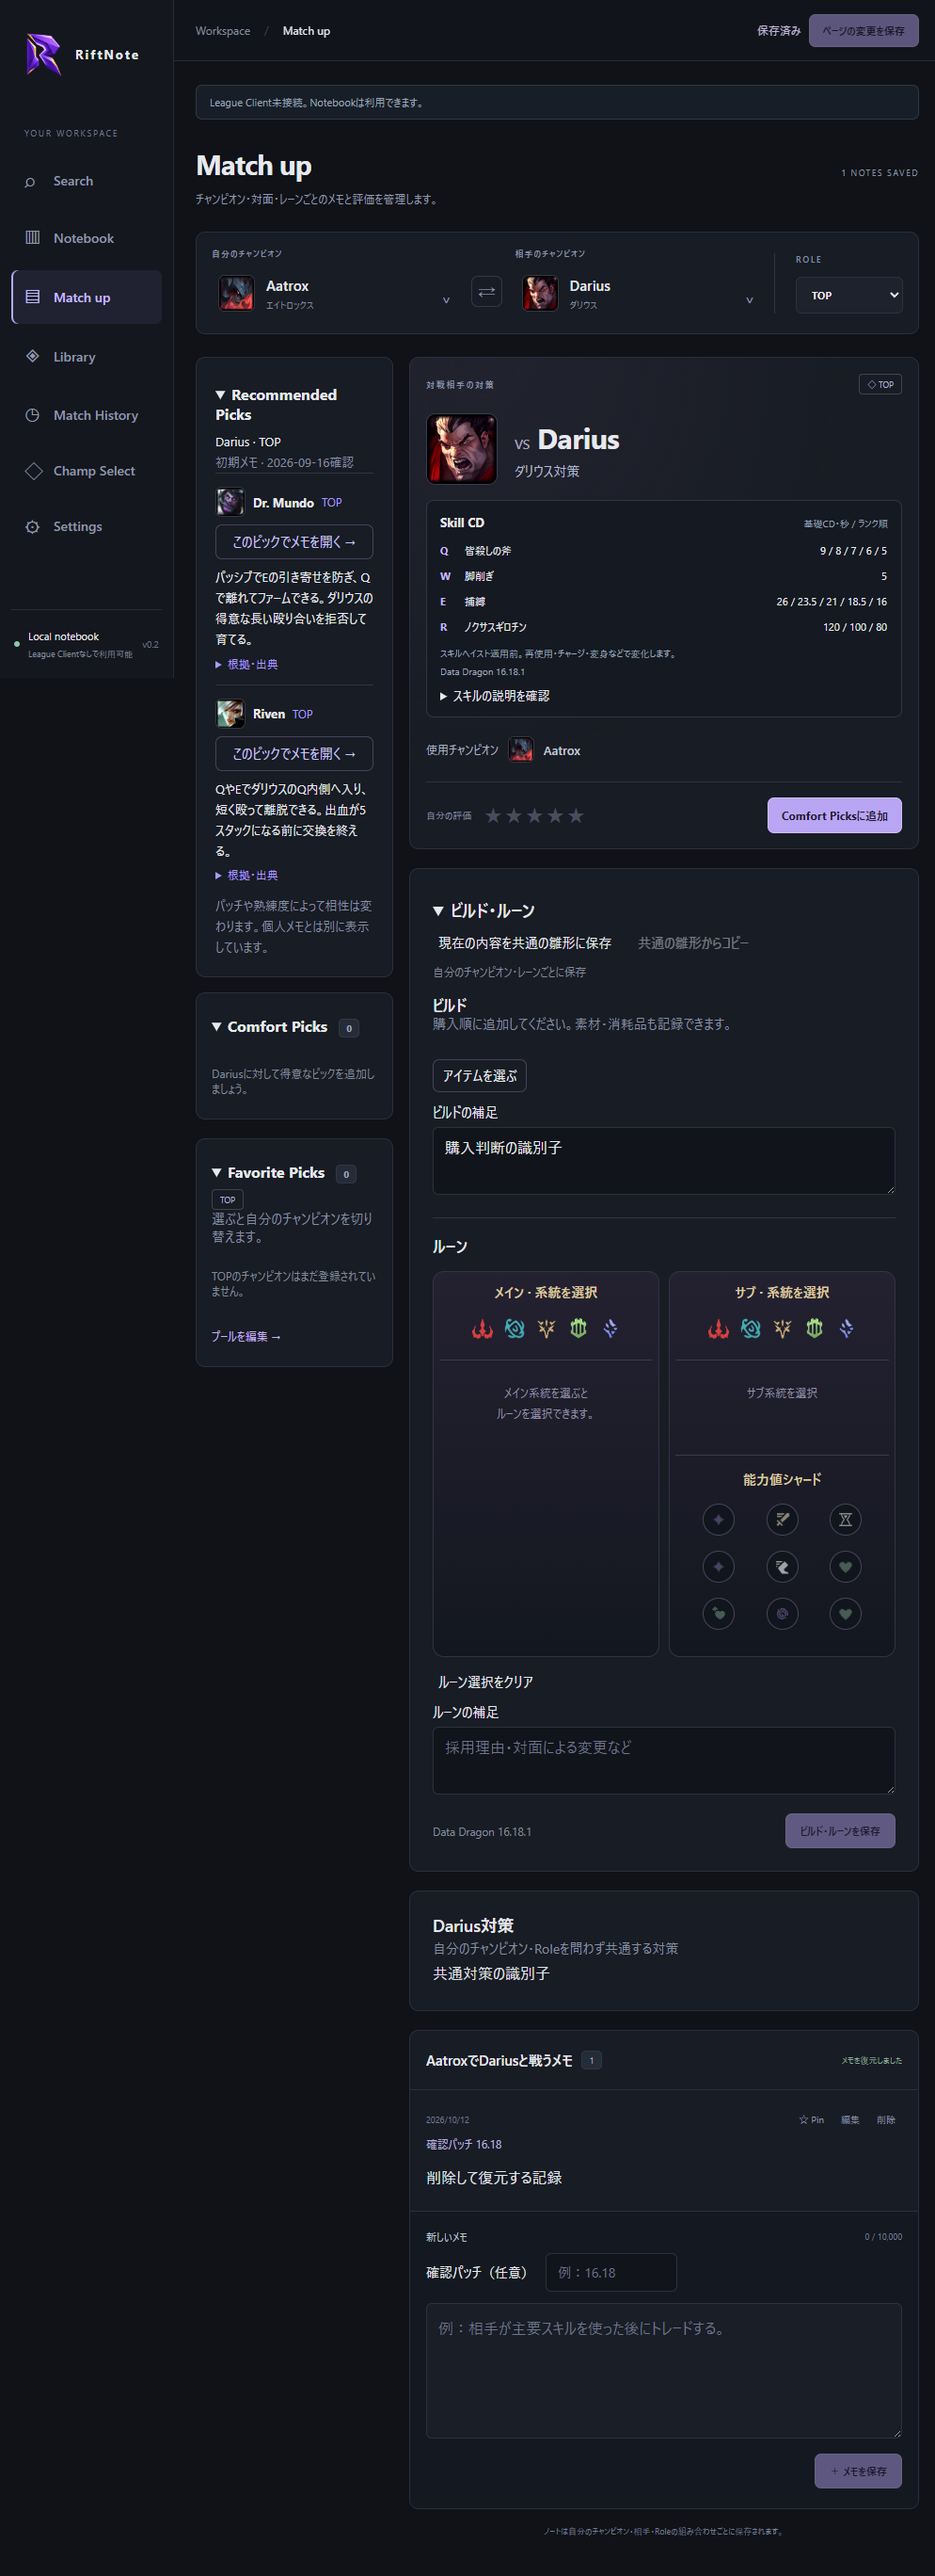
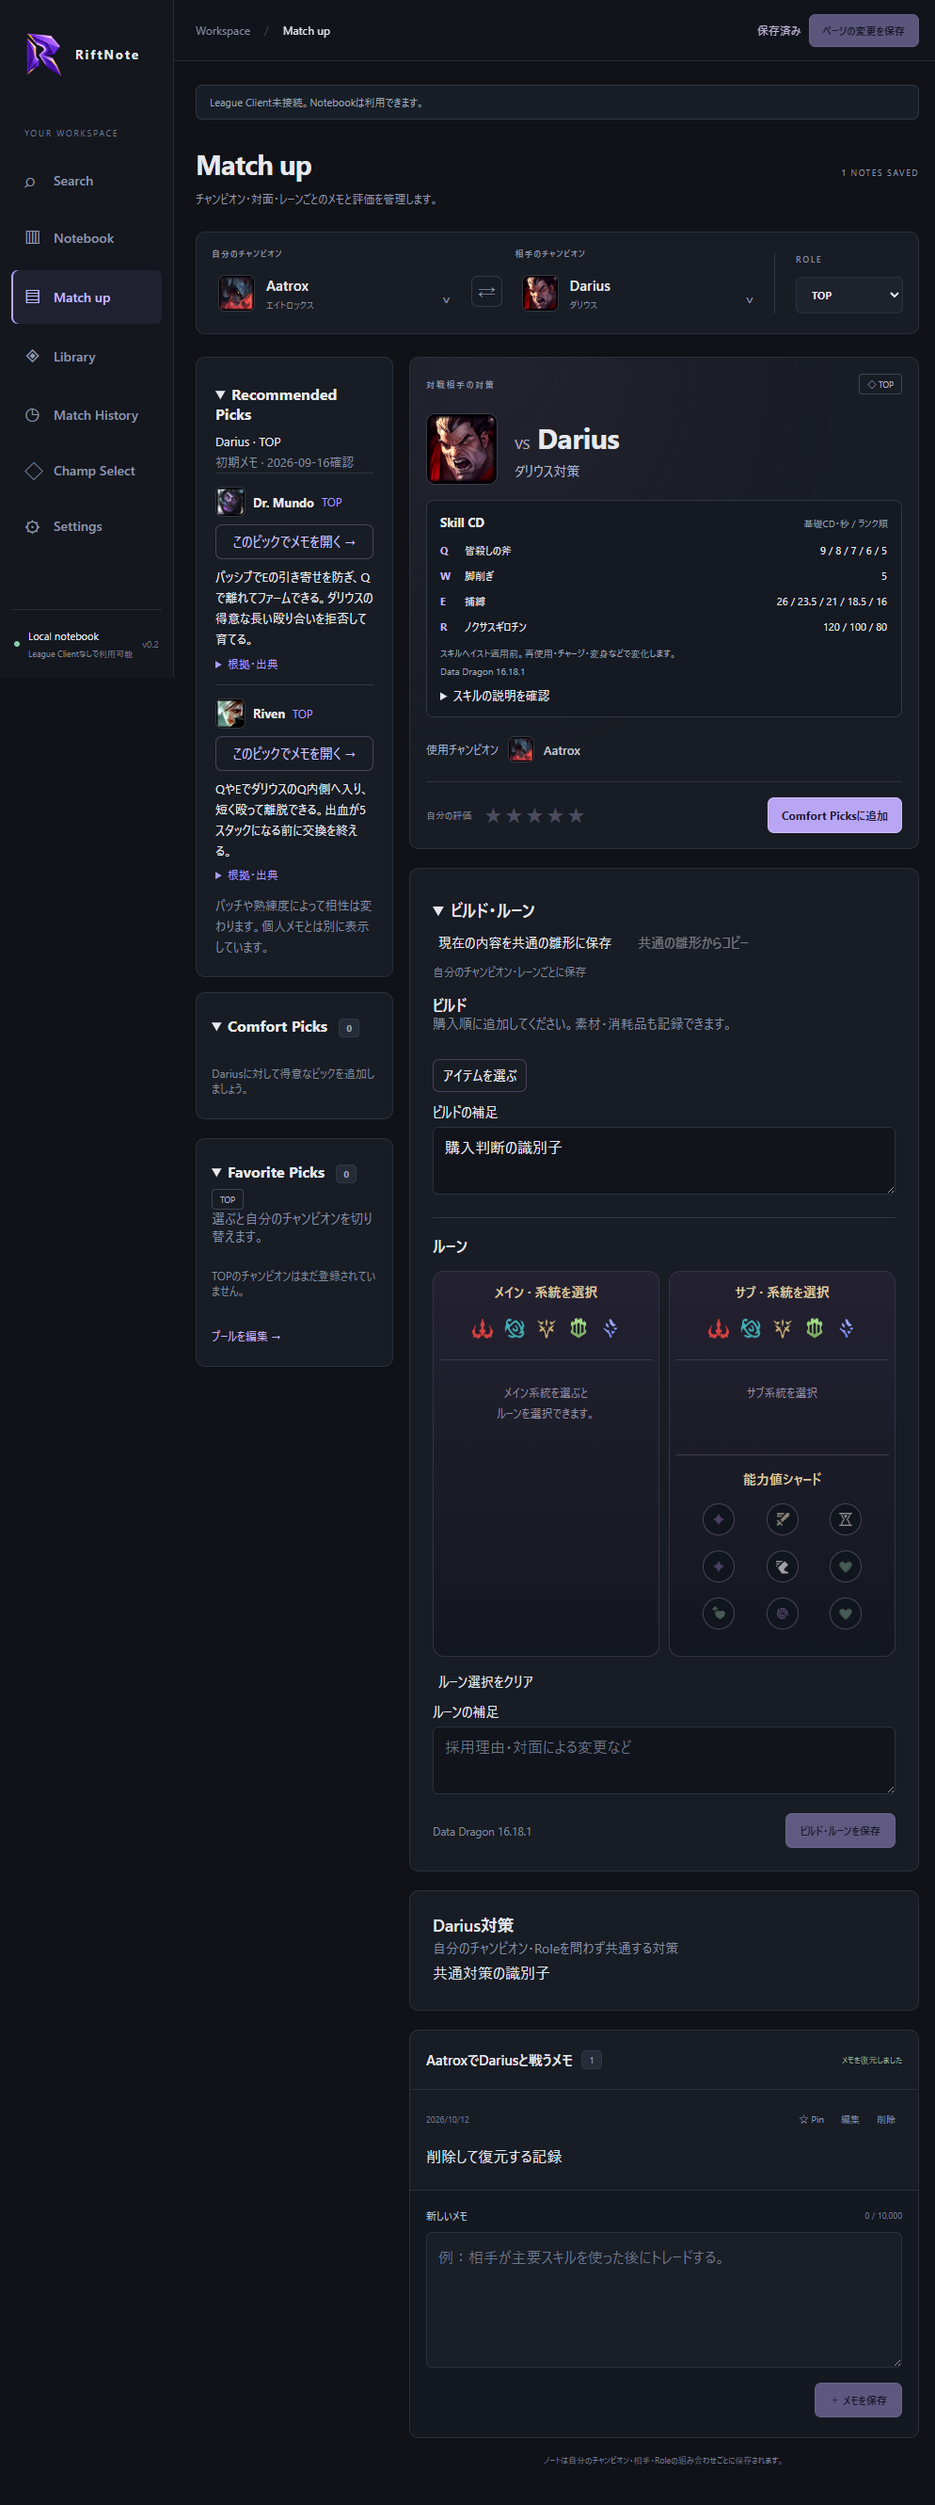
fix: remove patch verification fields for 0.2.1 prerelease

diff --git a/tests/improvements.e2e.ts b/tests/improvements.e2e.ts
@@ -61,7 +61,7 @@ test('all-store search opens the correct article, counter and build; delete can 
     await page.getByLabel('メモ横断検索').fill('購入判断')
     await page.getByRole('button', { name: 'ノートを開く →' }).click()
     await expect(page.getByLabel('ビルドの補足')).toHaveValue('購入判断の識別子')
-    await expect(page.locator('.verified-patch')).toContainText('16.18')
+    await expect(page.locator('.verified-patch')).toHaveCount(0)
     await page.getByRole('button', { name: /メモ\d+を削除/ }).click()
     await page.getByRole('button', { name: '削除する', exact: true }).click()
     await expect(page.locator('.note-card')).toHaveCount(0)
@@ -89,7 +89,7 @@ test('templates copy explicitly and unsaved notes and builds survive restarting 
     await page.getByRole('button', { name: '実行する', exact: true }).click()
     await expect(page.getByLabel('ビルドの補足')).toHaveValue('雛形の内容')
     await page.getByLabel('新しいメモ', { exact: true }).fill('再起動後に復元する下書き')
-    await page.getByLabel('確認パッチ', { exact: true }).fill('16.18')
+    await expect(page.getByLabel('確認パッチ', { exact: true })).toHaveCount(0)
     await expect
       .poll(() =>
         page.evaluate(
@@ -110,7 +110,7 @@ test('templates copy explicitly and unsaved notes and builds survive restarting 
     await expect(page.getByLabel('新しいメモ', { exact: true })).toHaveValue(
       '再起動後に復元する下書き',
     )
-    await expect(page.getByLabel('確認パッチ', { exact: true })).toHaveValue('16.18')
+    await expect(page.getByLabel('確認パッチ', { exact: true })).toHaveCount(0)
     await expect(page.getByLabel('ビルドの補足')).toHaveValue('雛形の内容')
     await page.getByRole('button', { name: 'ページの変更を保存', exact: true }).click()
     await expect(page.locator('.note-card')).toContainText('再起動後に復元する下書き')

diff --git a/src/renderer/src/App.tsx b/src/renderer/src/App.tsx
@@ -568,17 +568,6 @@ export default function App() {
       </div>
       {category === '振り返り' && <span className="category-badge">振り返り</span>}
       {reviewInfo && <ReviewDetails review={reviewInfo} />}
-      <label className="patch-field">
-        確認パッチ（任意）
-        <input
-          aria-label="確認パッチ"
-          placeholder="例：16.18"
-          maxLength={8}
-          value={verifiedPatch}
-          disabled={!ready || busy || !!noteDraft.candidate}
-          onChange={(e) => setVerifiedPatch(e.target.value)}
-        />
-      </label>
       <textarea
         id="note-body"
         ref={editor}
@@ -890,7 +879,7 @@ export default function App() {
           <div>
             Local notebook<small>League Clientなしで利用可能</small>
           </div>
-          <span className="version">v0.2</span>
+          <span className="version">v0.2.1</span>
         </div>
       </aside>
 

diff --git a/src/renderer/src/NoteContent.tsx b/src/renderer/src/NoteContent.tsx
@@ -17,14 +17,11 @@ export function ReviewTag({ note }: { note: Pick<Note, 'category'> }) {
 export default function NoteContent({
   note,
 }: {
-  note: Pick<Note, 'category' | 'body' | 'verifiedPatch'>
+  note: Pick<Note, 'category' | 'body'>
 }) {
   const { body, review } = splitReviewNote(note)
   return (
     <>
-      {note.verifiedPatch && (
-        <small className="verified-patch">確認パッチ {note.verifiedPatch}</small>
-      )}
       {review && <ReviewDetails review={review} />}
       <p className="note-body">{body}</p>
     </>

diff --git a/src/renderer/src/styles.css b/src/renderer/src/styles.css
@@ -2328,16 +2328,6 @@ h1 {
   gap: 8px;
   margin-bottom: 16px;
 }
-.patch-field {
-  display: flex;
-  align-items: center;
-  gap: 12px;
-  margin-bottom: 12px;
-}
-.patch-field input {
-  width: 140px;
-}
-.verified-patch,
 .search-location {
   display: block;
   color: #bbb0df;

diff --git a/docs/releases/0.2.1.md b/docs/releases/0.2.1.md
@@ -1,0 +1,9 @@
+# RiftNote 0.2.1 — Pre-release
+
+メモ編集の「確認パッチ」入力欄と、保存済みメモ上の確認パッチ表示を削除しました。既存の値はデータ互換性のため保持されます。DB・バックアップ形式の変更はありません。
+
+Assetsの **RiftNote-Setup-0.2.1-x64.exe** をダウンロードしてください。更新前にSettingsからバックアップを書き出し、RiftNoteを終了してからインストーラーを実行してください。SHA256SUMS.txtも添付しています。
+
+Windows x64向けの未署名の試用版です。クリーンなWindowsでのインストール・更新・アンインストールは未検証です。メモ・バックアップは端末内に平文保存されます。自動更新はありません。
+
+型チェック・ビルド・Lint・関連E2E 5件で変更を確認しています。基本機能と試用手順は[0.2.0の案内](https://github.com/GanbaruKing/LOL-note/blob/main/docs/releases/0.2.0.md)、データの扱いは[SECURITY.md](https://github.com/GanbaruKing/LOL-note/blob/main/SECURITY.md)を参照してください。

diff --git a/docs/handoff.md b/docs/handoff.md
@@ -1,5 +1,9 @@
 # 次の開発への引き継ぎ
 
+## 最新：0.2.1 Pre-release（2026-10-12）
+
+ユーザーの希望で確認パッチの入力欄・表示を削除。既存値の保持とDB/バックアップ互換性は維持。関連E2E 5件・Build・Lint成功。ユーザー承認でmainと配布版へ反映。配布案内は[0.2.1](releases/0.2.1.md)。
+
 ## 最新：0.2.0 改善一式（2026-10-12）
 
 検索統合、試合前の参照優先、削除済みメモ/記事の個別復元、自動バックアップ20世代、下書き退避/再起動復元、記入済み履歴、確認パッチ、共通ビルド雛形、CD条件の補足、一括データ更新、App責務分離を実装。[詳細](improvements.md)。DB v7 / backup v4。旧形式読込可。以下の古い未対応事項はこの節で上書き。検証：39単体/統合テスト、23 E2E一括＋最終変更後に改善E2E5件、型チェック/Build/Lint/diff確認、16.18.1の一括データ更新、dist生成が成功。配布物はRiftNote-Setup-0.2.0-x64.exe。詳細は[配布記録](release.md)。既存のChamp Select→Match up導線の作業中差分は維持。
